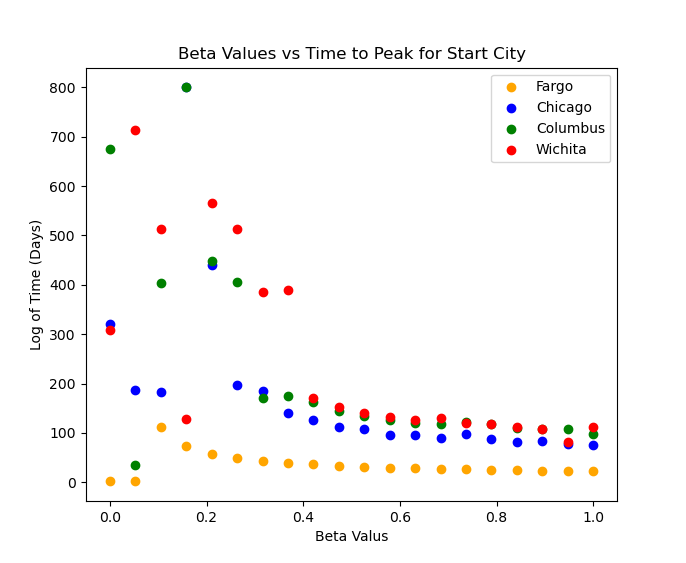
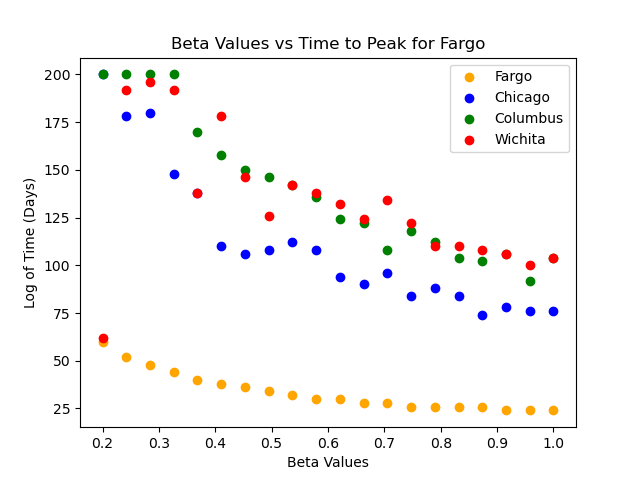
updated code more

diff --git a/experiments.py b/experiments.py
@@ -17,34 +17,50 @@ from scipy import signal, fft
 def quarantine_v_travel_ban(trials=10, city_to_analyze='Chicago'):
     v=VarGetter()
 
-    vals = []
+    idxvals = []
+    maxvals = []
 
-    for quarantine_days in range(0, 15):
-        vals2 = []
-        for threshold in [.05, .075, .1, .125, .15, .2, 1]:
+    thresh_vals = np.linspace(.05, .4, 20)
+    quarantine_days_list = np.arange(0, 20)
+
+    for quarantine_days in tqdm(quarantine_days_list, 'QDays Trials'):
+        idxvals2 = []
+        maxvals2 = []
+
+        for threshold in thresh_vals:
             v.threshold = threshold 
             v.dvars['quarantine_days'] = quarantine_days
 
             avg_I_data, _ = get_avg_data(trials, v)
-            vals2.append(avg_I_data.idxmax(axis=1)[city_to_analyze])
+            idxvals2.append(avg_I_data.idxmax(axis=1)[city_to_analyze])
+            maxvals2.append(avg_I_data.max(axis=1)[city_to_analyze])
 
-        vals.append(vals2)
+        idxvals.append(idxvals2)
+        maxvals.append(maxvals2)
 
-    df = pd.DataFrame(vals, index=np.arange(0, 15), columns=[.05, .075, .1, .125, .15, .2, 1])
+    idxdf = pd.DataFrame(idxvals, index=quarantine_days_list, columns=thresh_vals)
+    maxdf = pd.DataFrame(maxvals, index=quarantine_days_list, columns=thresh_vals)
 
-    sns.heatmap(df)
-    plt.xlabel('Quarantine Days')
-    plt.xlabel('Travel Ban Threhold (Fraction of Population)')
-    plt.title('Quarantine vs Travel Ban')
+    _, ax = plt.subplots(1, 2)
+
+    sns.heatmap(idxdf, ax=ax[0])
+    ax[0].set_ylabel('Quarantine Days')
+    ax[0].set_xlabel('Travel Ban Threhold (Fraction of Population)')
+    ax[0].set_title('Quarantine vs Travel Ban (Time to Peak)')
+
+    sns.heatmap(maxdf, ax=ax[1])
+    ax[1].set_ylabel('Quarantine Days')
+    ax[1].set_xlabel('Travel Ban Threhold (Fraction of Population)')
+    ax[1].set_title('Quarantine vs Travel Ban (Max Infected)')
+
     plt.show()
-
     
 def beta_ttp(trials=10):
     v = VarGetter()
 
     betas, ttpfargo, ttpchicago, ttpcolumbus, ttpwichita = [], [], [], [], []
 
-    for i in tqdm(np.linspace(0, 1, 20), 'Betas'):
+    for i in tqdm(np.linspace(0.2, 1, 20), 'Betas'):
         v.dvars['beta'] = i
         betas.append(i)
 
@@ -59,9 +75,9 @@ def beta_ttp(trials=10):
     plt.scatter(betas, ttpchicago, color='blue', label='Chicago')
     plt.scatter(betas, ttpcolumbus, color='green', label='Columbus')
     plt.scatter(betas, ttpwichita, color='red', label='Wichita')
-    plt.xlabel('Beta Valus')
+    plt.xlabel('Beta Values')
     plt.ylabel('Log of Time (Days)')
-    plt.title('Beta Values vs Time to Peak for Start City')
+    plt.title(f'Beta Values vs Time to Peak for {v.get_start_nodes()[0]}')
     plt.legend()
     plt.show()
 
@@ -421,8 +437,13 @@ Play with initial conditions (start city)
 Change immunity loss and infectious period
 quarantine, travel ban (is one more effective)
 
-beta vs avg time to peak (see if it matches a curve)
-
 think about how to quantify quarantine vs travel ban, surface plot of travel ban vs quarantine days
 think about how the sin_beta function works, how does first case occurrence affect spread
+
+r0 is basic reproduction number, based on params there is threshold of when I` = 0 (takes off or dies out)
+beta / gamma, consider
+write about r0, that we only consider when r0 is greater than 1
+introduce why disease modelling is important
+copy and paste julie's sir diff eq proof
+make note of what simulations are most interesting
 """
